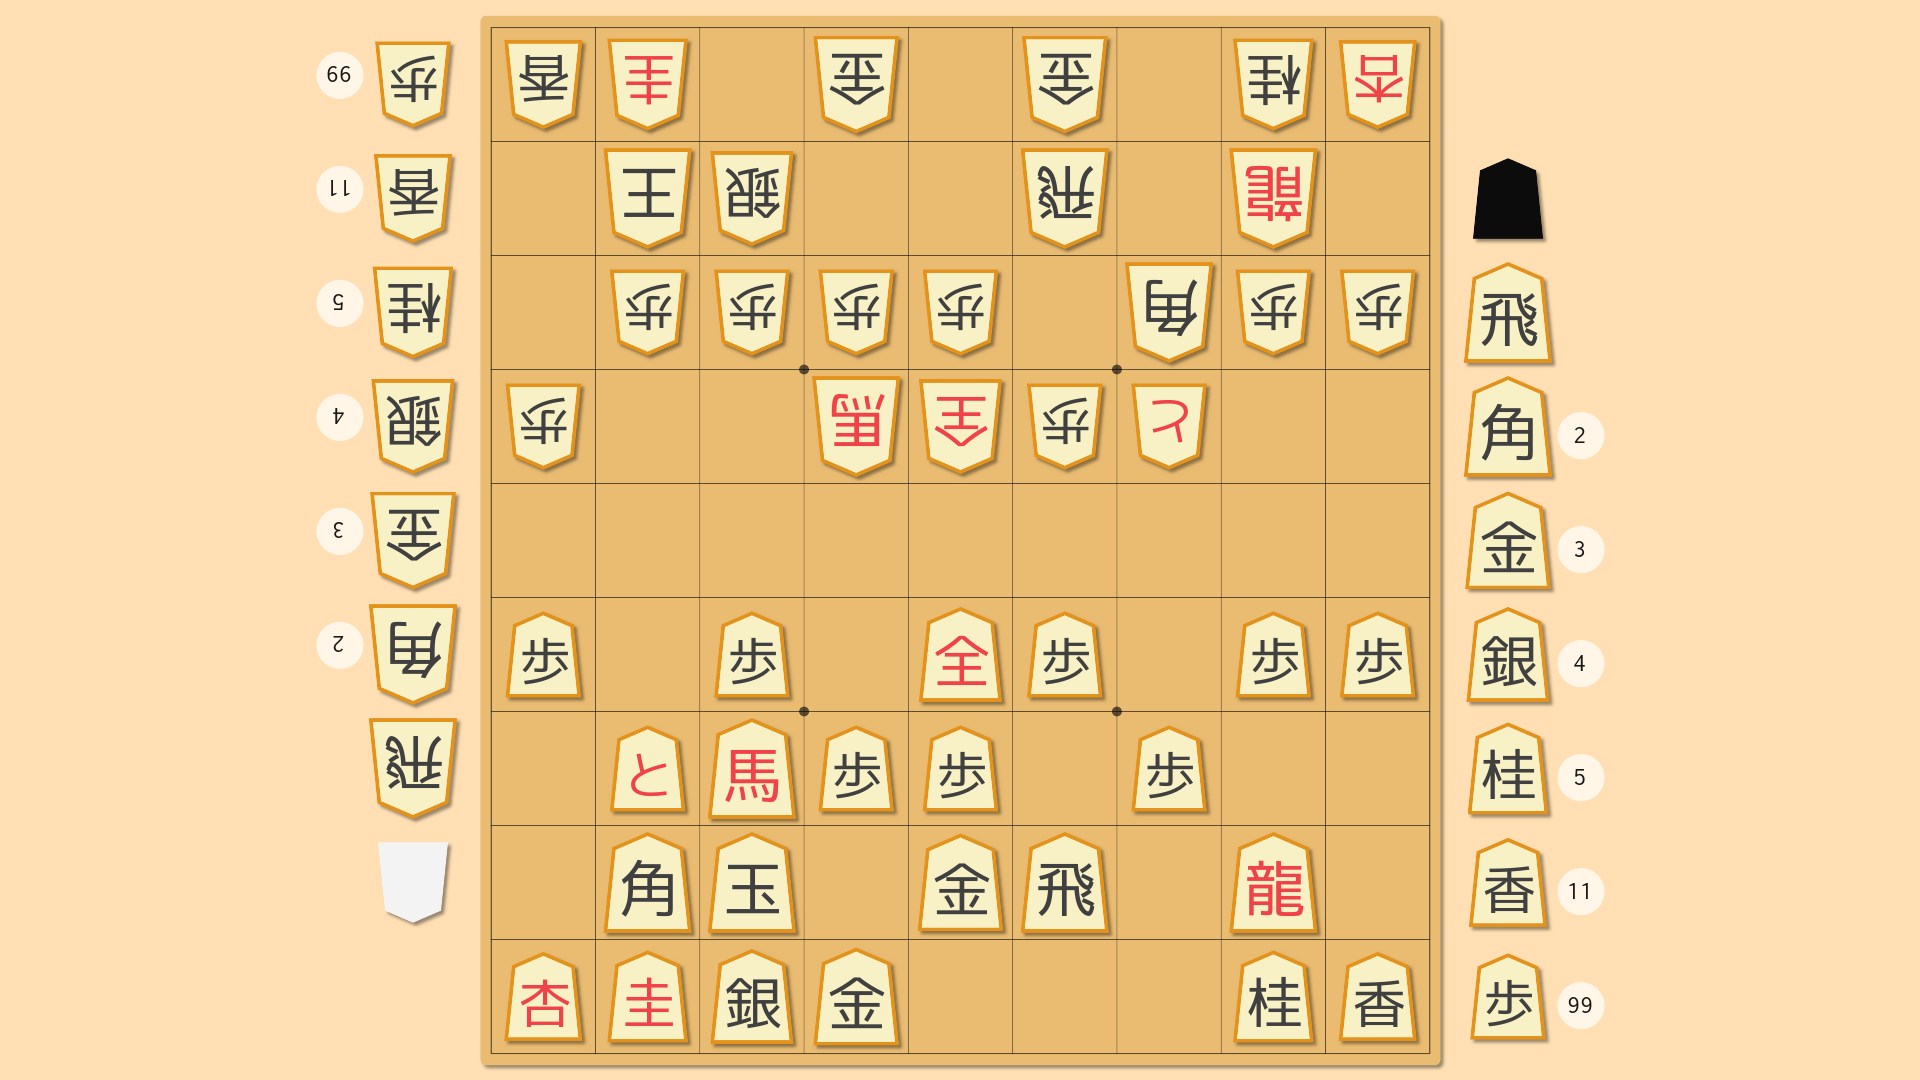
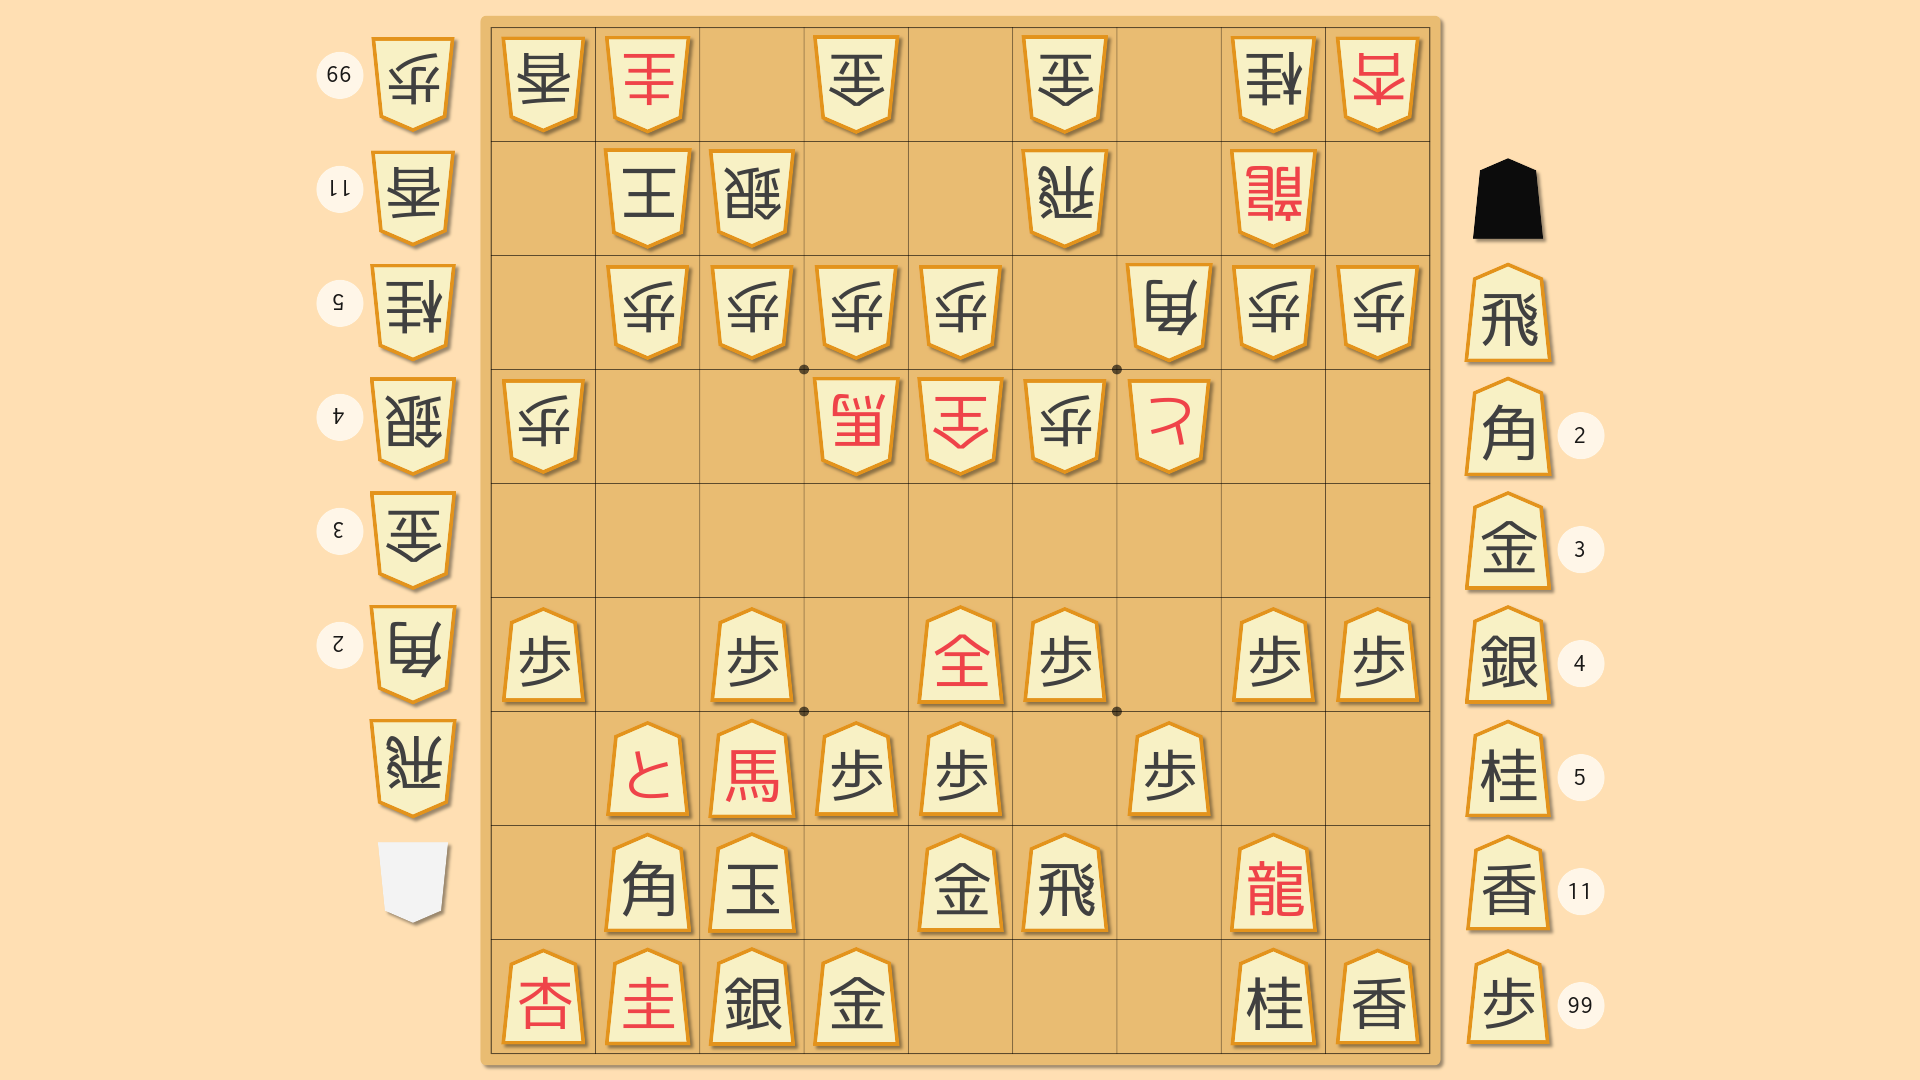
[feat] is_color_theme_paper の「歩」がやけに小さいので大きさを調整する

diff --git a/lib/bioshogi/piece/piece_scale.rb b/lib/bioshogi/piece/piece_scale.rb
@@ -5,14 +5,15 @@ module Bioshogi
     class PieceScale
       include ApplicationMemoryRecord
       memory_record [
-        { key: :king,   scale: 1.00, },
-        { key: :rook,   scale: 1.00, },
-        { key: :bishop, scale: 1.00, },
-        { key: :gold,   scale: 0.97, },
-        { key: :silver, scale: 0.94, },
-        { key: :knight, scale: 0.91, },
-        { key: :lance,  scale: 0.88, },
-        { key: :pawn,   scale: 0.85, },
+        # http://kijishi.html.xdomain.jp/komanosize.htm
+        { key: :king,   scale: 1.00, }, # 王が一番大きい
+        { key: :rook,   scale: 0.99, }, # 飛車と角の大きさは同じでよい
+        { key: :bishop, scale: 0.99, },
+        { key: :gold,   scale: 0.98, }, # 金・銀の大きさは同じ
+        { key: :silver, scale: 0.98, },
+        { key: :knight, scale: 0.97, }, # 桂馬の香車の差は大きい
+        { key: :lance,  scale: 0.95, },
+        { key: :pawn,   scale: 0.94, },
       ]
     end
   end

diff --git a/workbench/screen_image/0240_color_theme.rb b/workbench/screen_image/0240_color_theme.rb
@@ -22,6 +22,10 @@ bg_file = nil
 
 # ScreenImage::ColorThemeInfo.each { |e| parser.screen_image_renderer(color_theme_key: e.key, renderer_override_params: {bg_file: bg_file}).display }
 
+parser.screen_image_renderer(color_theme_key: "is_color_theme_paper").display
+exit
+
+
 parser.screen_image_renderer(color_theme_key: "is_color_theme_real", renderer_override_params: {piece_image_key: "Portella"}).display
 
 # parser.screen_image_renderer(color_theme_key: "is_color_theme_emoji_pattern_mito").display

diff --git a/lib/bioshogi/screen_image/core_methods.rb b/lib/bioshogi/screen_image/core_methods.rb
@@ -17,7 +17,7 @@ module Bioshogi
 
               # 文字の大きさの割合
               # ※割合はすべてセルの大きさを1.0とする
-              :soldier_font_scale => 0.85, # 盤上駒
+              :soldier_font_scale => 0.85, # PieceScale に掛ける共通倍率。かなり印象が変わる。1.00 だと暑苦しい。
               :piece_scale_map    => {},
 
               # 駒(文字)の位置調整
